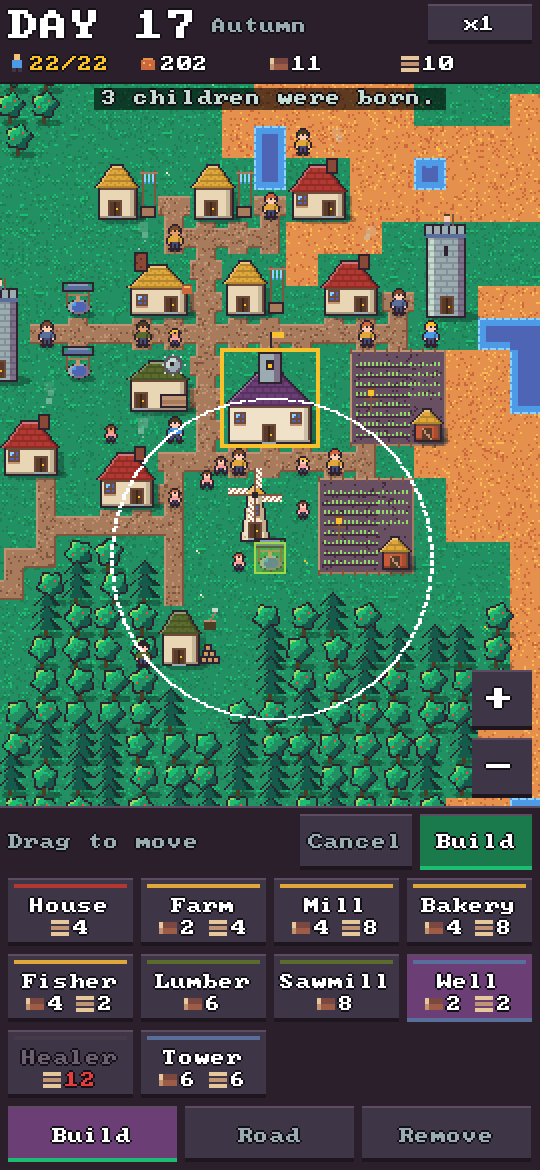
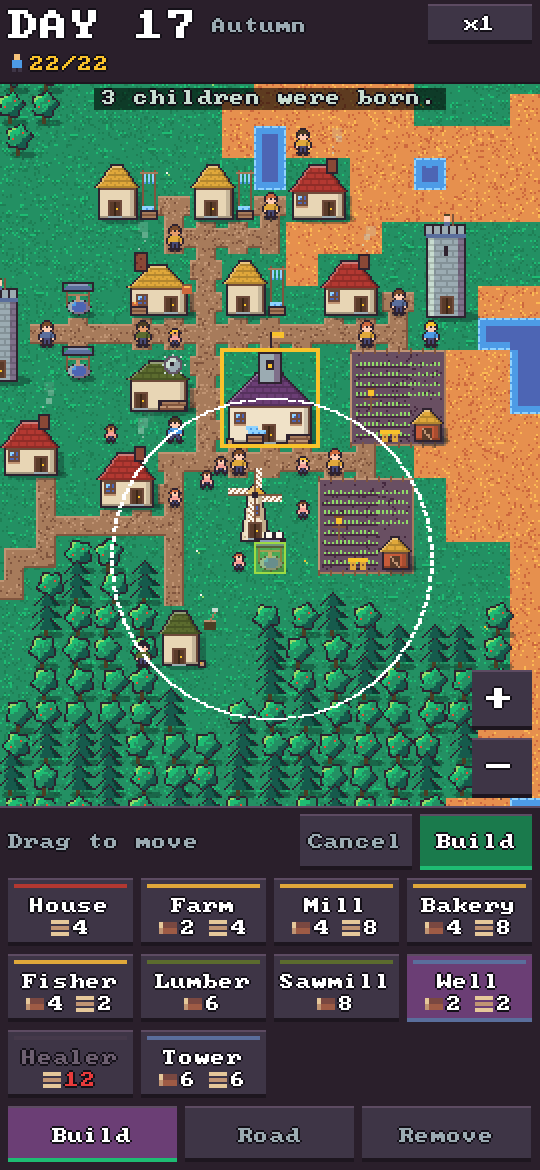
Hide resource counters; show stock as piles on the map (hall yard, producers), LOW chips only when short

diff --git a/src/render.cpp b/src/render.cpp
@@ -331,6 +331,59 @@ void smoke(Canvas& cv, int x, int y, int frame, int seed) {
     }
 }
 
+// ---------------------------------------------------------------- stock piles
+// Goods are not counted in the HUD; they sit as piles on the map instead.
+// How full a pile is: the town's stock split over the buildings that hold it.
+int pileLevel(const World& w, Res r, int holders, float step, int maxN) {
+    if (holders <= 0) return 0;
+    float per = w.store[(int)r] / holders;
+    if (per <= 0.05f) return 0;
+    return std::min(maxN, (int)std::ceil(per / step));
+}
+// logs stacked in a pyramid, end grain facing us; (x, bottom) = lower-left
+void logPile(Canvas& cv, int x, int bottom, int n) {
+    int base = n >= 6 ? 3 : (n >= 3 ? 2 : 1), k = 0;
+    for (int r = 0; k < n && r < 3; r++)
+        for (int i = 0; i < base - r && k < n; i++, k++) {
+            int lx = x + i * 4 + r * 2, ly = bottom - 4 - r * 3;
+            cv.rect(lx, ly, 4, 4, OUTLINE); cv.rect(lx + 1, ly + 1, 2, 2, WOOD_L); cv.put(lx + 1, ly + 1, RIPE_D);
+        }
+}
+// planks: n boards, 2px each, w wide
+void plankPile(Canvas& cv, int x, int bottom, int n, int w = 11) {
+    if (n <= 0) return;
+    cv.rect(x - 1, bottom - 2 * n - 1, w + 3, 2 * n + 2, OUTLINE);
+    for (int i = 0; i < n; i++) {
+        int yy = bottom - 2 - i * 2, off = (i & 1);
+        cv.rect(x + off, yy, w, 1, i & 1 ? WOOD : WOOD_L);
+        cv.rect(x + off, yy + 1, w, 1, WOOD_D);
+        cv.put(x + off + (i * 5 + 3) % w, yy, WOOD_D);   // knot
+    }
+}
+// sacks (flour) or sheaves (wheat), up to 2 rows
+void sacks(Canvas& cv, int x, int bottom, int n, bool wheat) {
+    for (int k = 0; k < n; k++) {
+        int r = k / 3, i = k % 3;
+        int sx = x + i * 5 + r * 2, sy = bottom - 6 - r * 4;
+        if (wheat) {
+            cv.rect(sx + 1, sy, 3, 6, RIPE_D); cv.rect(sx, sy, 5, 2, RIPE); cv.put(sx + 2, sy + 3, WOOD_D);
+            cv.put(sx - 1, sy + 5, OUTLINE); cv.put(sx + 5, sy + 5, OUTLINE);
+        } else {
+            cv.rect(sx, sy + 1, 5, 5, OUTLINE); cv.rect(sx + 1, sy + 1, 3, 4, 0xfdf7ed); cv.put(sx + 3, sy + 4, WALL_D);
+            cv.rect(sx + 2, sy, 1, 1, OUTLINE);
+        }
+    }
+}
+// open crate with loaves or fish on top
+void crate(Canvas& cv, int x, int bottom, int n, bool fish) {
+    cv.rect(x, bottom - 5, 9, 5, OUTLINE); cv.rect(x + 1, bottom - 4, 7, 3, WOOD); cv.rect(x + 1, bottom - 3, 7, 1, WOOD_D);
+    for (int k = 0; k < n; k++) {
+        int i = k % 3, r = k / 3, fx = x + 1 + i * 3 - r, fy = bottom - 7 - r * 2;
+        if (fish) { cv.rect(fx, fy, 3, 2, 0x8fd3ff); cv.put(fx + 2, fy + 1, 0x4d9be6); }
+        else { cv.rect(fx, fy, 3, 2, 0xcd683d); cv.put(fx + 1, fy, SAND_L); }
+    }
+}
+
 void drawBuilding(Canvas& cv, const World& w, const Building& b, int frame, bool night, bool winter, int seed) {
     const BInfo& in = binfo(b.type);
     int x = b.x * T, y = b.y * T, W = in.w * T, H = in.h * T;
@@ -349,6 +402,10 @@ void drawBuilding(Canvas& cv, const World& w, const Building& b, int frame, bool
         cv.rect(tx + 6, y - 9, 6, 3, 0xf9c22b); cv.rect(tx + 6 + 2 * wave, y - 7, 4, 1, 0xfbb954);
         window(cv, x + 7, y + 32, night); window(cv, x + W - 13, y + 32, night);
         door(cv, x + W / 2 - 3, y + H - 10, 8);
+        // the town's store: start stock and anything no producer is holding
+        logPile(cv, x + 2, y + H, pileLevel(w, Res::Logs, 1 + w.count(BType::Lumber), 3.f, 6));
+        plankPile(cv, x + W - 15, y + H - 1, pileLevel(w, Res::Planks, 1 + w.count(BType::Sawmill), 4.f, 4), 10);
+        if (w.food() > 0.05f) crate(cv, x + 12, y + H - 1, std::min(5, (int)std::ceil(w.food() / std::max(1, 1 + w.count(BType::Bakery) + w.count(BType::Fisher)) / 8.f)), w.store[(int)Res::Fish] > w.store[(int)Res::Bread]);
         break;
     }
     case BType::House: {
@@ -362,12 +419,7 @@ void drawBuilding(Canvas& cv, const World& w, const Building& b, int frame, bool
     case BType::Lumber: {
         cottage(cv, x + 1, y + 3, 20, H - 6, roof, night, winter, 11);
         door(cv, x + 8, y + H - 10, 7);
-        // log pile with end grain rings
-        for (int r = 0; r < 3; r++)
-            for (int i = 0; i < 3 - r; i++) {
-                int lx = x + 22 + i * 3 + r * 1, ly = y + H - 6 - r * 3;
-                cv.rect(lx - 1, ly - 1, 4, 4, OUTLINE); cv.rect(lx, ly, 2, 2, WOOD_L); cv.put(lx, ly, RIPE_D);
-            }
+        logPile(cv, x + 20, y + H - 1, pileLevel(w, Res::Logs, 1 + w.count(BType::Lumber), 3.f, 6));
         // stump with axe
         cv.rect(x + 23, y + 8, 6, 4, TRUNK); cv.rect(x + 23, y + 7, 6, 1, WOOD_L);
         cv.line(x + 26, y + 7, x + 28, y + 2, WOOD); cv.rect(x + 27, y + 1, 3, 2, ROCK_LL);
@@ -386,9 +438,7 @@ void drawBuilding(Canvas& cv, const World& w, const Building& b, int frame, bool
         }
         for (int k = 0; k < 8; k++) { float a = a0 + k * 0.785f; cv.put(cx + (int)std::lround(std::cos(a) * 5.5f), cy + (int)std::lround(std::sin(a) * 5.5f), ROCK_LL); }
         cv.rect(cx - 1, cy - 1, 2, 2, OUTLINE);
-        // plank stack
-        for (int i = 0; i < 3; i++) { cv.rect(x + W - 14, y + H - 5 - i * 2, 12, 2, i & 1 ? WOOD : WOOD_L); }
-        cv.outlineRect(x + W - 15, y + H - 10, 14, 7, OUTLINE);
+        plankPile(cv, x + W - 15, y + H - 2, pileLevel(w, Res::Planks, 1 + w.count(BType::Sawmill), 3.f, 6), 12);
         break;
     }
     case BType::Fisher: {
@@ -397,8 +447,9 @@ void drawBuilding(Canvas& cv, const World& w, const Building& b, int frame, bool
         // drying rack with fish
         cv.line(x + 24, y + 6, x + 24, y + H - 3, WOOD_D); cv.line(x + 30, y + 6, x + 30, y + H - 3, WOOD_D);
         cv.line(x + 23, y + 7, x + 31, y + 7, WOOD);
-        for (int i = 0; i < 3; i++) { int fx = x + 25 + i * 2; cv.rect(fx, y + 8, 1, 4, 0x8fd3ff); cv.put(fx, y + 12, 0x4d9be6); }
-        cv.rect(x + 24, y + H - 7, 6, 4, WOOD); cv.outlineRect(x + 23, y + H - 8, 8, 6, OUTLINE);   // barrel
+        int nf = pileLevel(w, Res::Fish, w.count(BType::Fisher) + w.count(BType::Bakery) + 1, 8.f, 8);
+        for (int i = 0; i < std::min(3, nf); i++) { int fx = x + 25 + i * 2; cv.rect(fx, y + 8, 1, 4, 0x8fd3ff); cv.put(fx, y + 12, 0x4d9be6); }
+        crate(cv, x + 23, y + H - 1, std::max(0, nf - 3), true);
         break;
     }
     case BType::Farm: {
@@ -430,6 +481,7 @@ void drawBuilding(Canvas& cv, const World& w, const Building& b, int frame, bool
         // barn in the corner
         cottage(cv, x + W - 17, y + H - 18, 15, 15, roof, night, winter, 7, 0xc75b39);
         cv.rect(x + W - 12, y + H - 9, 5, 6, DOOR); cv.line(x + W - 12, y + H - 9, x + W - 8, y + H - 4, WOOD_L);
+        sacks(cv, x + W - 33, y + H - 2, pileLevel(w, Res::Wheat, w.count(BType::Farm), 4.f, 6), true);   // harvested sheaves
         // scarecrow
         if (!winter) { int sx = x + 10, sy = y + 30; cv.line(sx, sy, sx, sy - 8, WOOD_D); cv.line(sx - 3, sy - 6, sx + 3, sy - 6, WOOD_D); cv.rect(sx - 1, sy - 10, 3, 3, RIPE); cv.rect(sx - 2, sy - 11, 5, 1, 0x7a4a2a); }
         break;
@@ -466,6 +518,7 @@ void drawBuilding(Canvas& cv, const World& w, const Building& b, int frame, bool
                 }
         }
         cv.rect(hx - 1, hy - 1, 3, 3, OUTLINE);
+        sacks(cv, cx + 5, y + H, pileLevel(w, Res::Flour, w.count(BType::Mill), 3.f, 3), false);
         break;
     }
     case BType::Bakery: {
@@ -481,6 +534,8 @@ void drawBuilding(Canvas& cv, const World& w, const Building& b, int frame, bool
         // hanging bread sign
         cv.line(x + W - 4, y + 15, x + W, y + 15, WOOD_D);
         cv.rect(x + W - 4, y + 16, 5, 4, 0xcd683d); cv.rect(x + W - 3, y + 16, 3, 1, SAND_L);
+        int nb = pileLevel(w, Res::Bread, w.count(BType::Bakery) + 1, 8.f, 6);
+        if (nb > 0) crate(cv, x + 2, y + H - 1, nb, false);
         break;
     }
     case BType::Well: {

diff --git a/src/main.cpp b/src/main.cpp
@@ -255,13 +255,12 @@ static void ui(SDL_Renderer* ren, Game& g, bool draw) {
     float y = (float)g.safeTop + pad;
     float topStart = 0;
     std::string dayS = "DAY " + std::to_string(w.day() + 1);
-    // one row of icon counters: people, food (bread + fish), logs, planks, and sick when there are any
     struct Stat { int icon; std::string v; uint32_t col; };
+    // goods live on the map as piles; the bar only speaks up when food or firewood runs short
     std::vector<Stat> stats = {
-        {0, std::to_string(w.population()) + "/" + std::to_string(w.housing()), w.population() >= w.housing() ? UI_WARN : UI_TEXT},
-        {1, std::to_string((int)w.food()), w.food() < w.population() * 2 ? UI_BAD : UI_TEXT},
-        {2, std::to_string((int)w.store[(int)Res::Logs]), (w.season() == Season::Winter && w.store[(int)Res::Logs] < 8) ? UI_BAD : UI_TEXT},
-        {3, std::to_string((int)w.store[(int)Res::Planks]), UI_TEXT}};
+        {0, std::to_string(w.population()) + "/" + std::to_string(w.housing()), w.population() >= w.housing() ? UI_WARN : UI_TEXT}};
+    if (w.food() < w.population() * 2) stats.push_back({1, "LOW", UI_BAD});
+    if (w.season() == Season::Winter && w.store[(int)Res::Logs] < 8) stats.push_back({2, "LOW", UI_BAD});
     if (w.sickCount() > 0) stats.push_back({4, std::to_string(w.sickCount()), 0x9cdb43});
     float topH = g.safeTop + pad + 22.f + 13.f + 3.f;
     if (draw) {
@@ -270,7 +269,7 @@ static void ui(SDL_Renderer* ren, Game& g, bool draw) {
         text(ren, pad, y + 1, UI_TEXT, dayS, 2.f);
         text(ren, pad + 16.f * dayS.size() + 6.f, y + 5, UI_DIM, seasonName(w.season()));
         if (g.daily) text(ren, pad + 16.f * dayS.size() + 6.f + 8.f * (std::strlen(seasonName(w.season())) + 1), y + 5, UI_WARN, "DAILY");
-        float cw = (g.scrW - 2 * pad) / (float)stats.size(), sy = y + 23.f;
+        float cw = (g.scrW - 2 * pad) / 4.f, sy = y + 23.f;
         for (size_t i = 0; i < stats.size(); i++) {
             float sx = pad + i * cw;
             statIcon(ren, sx, sy, stats[i].icon);

diff --git a/README.md b/README.md
@@ -17,6 +17,7 @@ There are no god powers: wells, healers and watchtowers are your only protection
 - **Winter** burns logs as firewood; cold houses show a firewood bubble.
 - **Safety:** a Well puts out fires and stops them spreading in its radius, a Healer cures plague, a Watchtower shoots raiders.
   While placing one you see its coverage circle and the houses it would cover light up.
+- **Stock on the map:** the top bar only shows people (and sick villagers). Goods sit as piles instead: logs and planks in front of the town hall and at lumber camps and sawmills, wheat sheaves by the farm barn, flour sacks at the mill, and crates of bread or fish. A pile shrinks as the stock runs down. A red LOW chip appears only when food is short, or when firewood is short in winter. Build cards still show their cost in red when you can't afford it.
 - **Warnings:** every disaster is announced 8 game seconds before it hits, with a countdown chip under the day counter, a glow on the edge raiders come from, and a tint for fire, plague or blizzard. A warning drops the speed back to x1.
 - **It gets harder:** disasters come more often and hit harder as the days pass, and after day 35 a second one can arrive in the afternoon. Every town falls eventually.
 - **The town's story:** when your town falls, the game-over screen tells its story day by day: founding, key buildings, growth, winters survived, the disasters that hit hardest, and the end.
